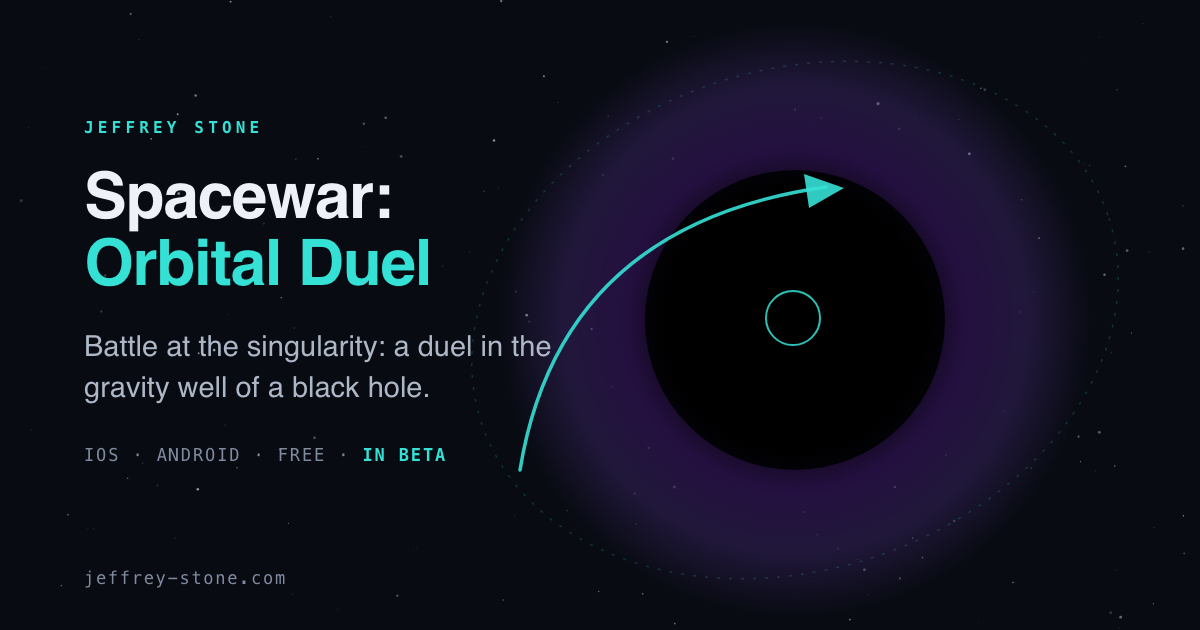
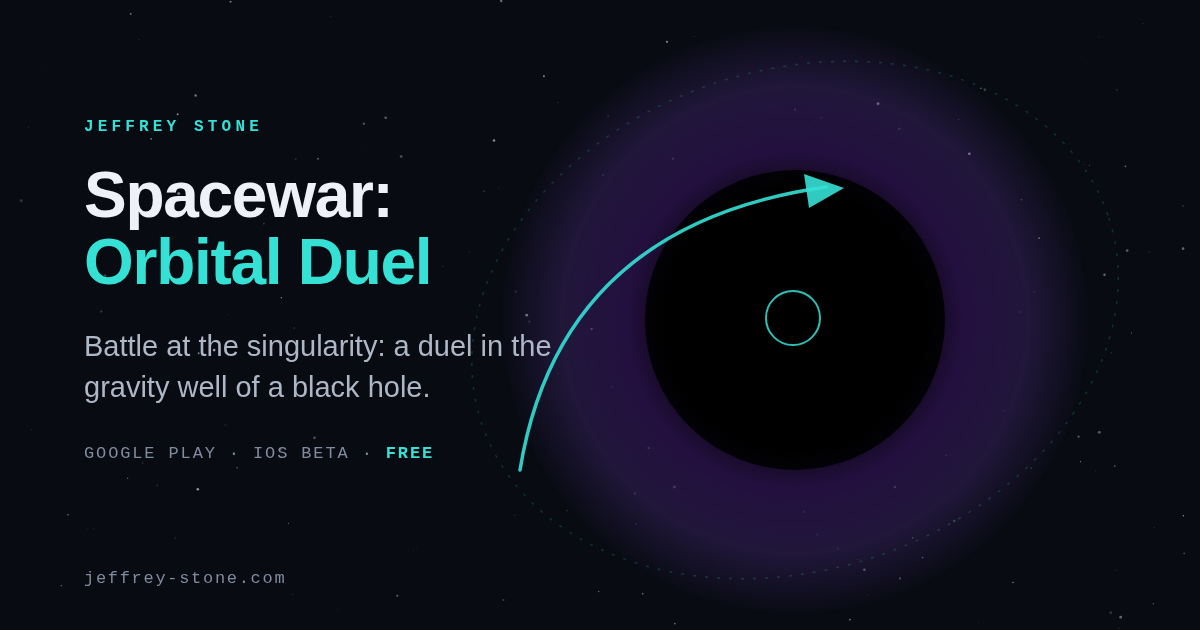
Publish site

diff --git a/support/index.html b/support/index.html
@@ -4,20 +4,20 @@
 <meta charset="utf-8">
 <meta name="viewport" content="width=device-width, initial-scale=1">
 <title>Support | Jeffrey Stone</title>
-<meta name="description" content="Spacewar: Orbital Duel in beta on iOS (TestFlight) or Android (Google Play), Rabbitbrush: Plant ID on the App Store and Google Play, and how to send feedback to the developer.">
+<meta name="description" content="Spacewar: Orbital Duel on Google Play and in beta on iPhone and iPad (TestFlight), Rabbitbrush: Plant ID on the App Store and Google Play, and how to send feedback to the developer.">
 <meta name="color-scheme" content="dark">
 <meta property="og:title" content="Support | Jeffrey Stone">
-<meta property="og:description" content="Spacewar: Orbital Duel in beta, Rabbitbrush: Plant ID on the App Store and Google Play, and how to reach the developer.">
+<meta property="og:description" content="Spacewar: Orbital Duel on Google Play and in beta on iPhone, Rabbitbrush: Plant ID on the App Store and Google Play, and how to reach the developer.">
 <meta property="og:type" content="website">
 <meta property="og:site_name" content="Jeffrey Stone">
 <meta property="og:url" content="https://jeffrey-stone.com/support/">
 <meta property="og:image" content="https://jeffrey-stone.com/assets/og-support.png">
 <meta property="og:image:width" content="1200">
 <meta property="og:image:height" content="630">
-<meta property="og:image:alt" content="Support: Spacewar: Orbital Duel in beta on iOS and Android, Rabbitbrush: Plant ID on the App Store and Google Play, and how to reach the developer.">
+<meta property="og:image:alt" content="Support and feedback: Spacewar on Google Play, Rabbitbrush in both stores, and how to reach me.">
 <meta name="twitter:card" content="summary_large_image">
 <meta name="twitter:title" content="Support | Jeffrey Stone">
-<meta name="twitter:description" content="Spacewar: Orbital Duel in beta, Rabbitbrush: Plant ID on the App Store and Google Play, and how to reach the developer.">
+<meta name="twitter:description" content="Spacewar: Orbital Duel on Google Play and in beta on iPhone, Rabbitbrush: Plant ID on the App Store and Google Play, and how to reach the developer.">
 <meta name="twitter:image" content="https://jeffrey-stone.com/assets/og-support.png">
 <link rel="icon" type="image/svg+xml" href="../assets/icon.svg">
 <link rel="icon" href="../assets/apple-touch-icon.png" sizes="180x180">
@@ -46,8 +46,8 @@
 <div class="page-head">
   <div class="wrap">
     <p class="eyebrow">Support &amp; feedback</p>
-    <h1>Testing an early build? Here's how to reach me</h1>
-    <p class="lede"><a href="../spacewar/">Spacewar: Orbital Duel</a> is in beta on iPhone, iPad and Android. <a href="../rabbitbrush/">Rabbitbrush: Plant ID</a> is on the App Store for iPhone and on Google Play for Android. How to get each is below; your notes shape where they go next.</p>
+    <h1>How to get the apps, and how to reach me</h1>
+    <p class="lede"><a href="../spacewar/">Spacewar: Orbital Duel</a> is on Google Play for Android and in beta on iPhone and iPad. <a href="../rabbitbrush/">Rabbitbrush: Plant ID</a> is on the App Store for iPhone and on Google Play for Android. How to get each is below; your notes shape where they go next.</p>
   </div>
 </div>
 
@@ -55,25 +55,20 @@
   <div class="wrap">
     <div class="flag">
       <p class="eyebrow" style="margin:0;">Spacewar: Orbital Duel</p>
-      <span class="badge">iOS &amp; Android Beta</span>
+      <span class="badge">Google Play &middot; iOS Beta</span>
     </div>
     <p class="lede">The game opens with a hands-on tutorial; the <a href="../spacewar/">controls guide</a> is a quick reference.</p>
     <div class="cta-row" style="margin-top:22px;">
+      <a class="store-badge play" href="https://play.google.com/store/apps/details?id=com.jeffreystone.spacewar" target="_blank" rel="noopener"><img src="../assets/google-play-badge.png" alt="Get it on Google Play" width="201" height="78"></a>
+    </div>
+    <p class="mono-line muted" style="margin-top:12px; font-size:13px;">Android 10 or later &middot; free, no ads.</p>
+    <p class="lede" style="margin-top:28px;">On iPhone and iPad, the game is in beta through TestFlight.</p>
+    <div class="cta-row" style="margin-top:14px;">
       <a class="btn btn-ghost" href="https://apps.apple.com/app/testflight/id899247664" target="_blank" rel="noopener">1 &middot; Get TestFlight</a>
       <a class="btn btn-primary" href="https://testflight.apple.com/join/bKWgvAwW" target="_blank" rel="noopener">2 &middot; Join the beta &rarr;</a>
     </div>
-    <p class="mono-line muted" style="margin-top:12px; font-size:13px;">Already have <b>TestFlight</b>? Go straight to step 2 &middot; iPhone or iPad &middot; limited spots. Android is below.</p>
+    <p class="mono-line muted" style="margin-top:12px; font-size:13px;">Already have <b>TestFlight</b>? Go straight to step 2 &middot; iPhone or iPad &middot; limited spots.</p>
     <p class="mono-line muted" style="margin-top:6px; font-size:13px;">If TestFlight asks for a redemption code, there isn't one. Close it, come back here, and tap <b>Join</b> again.</p>
-    <p class="lede" style="margin-top:28px;">On Android, the beta runs through Google Play. Play admits testers by a Google Group, so joining the group comes first.</p>
-    <div class="cta-row" style="margin-top:14px;">
-      <!-- the closed track's testers are the Google Group; the opt-in page and the store page answer only for an account in it -->
-      <a class="btn btn-primary" href="https://groups.google.com/g/spacewar-testers/about" target="_blank" rel="noopener">1 &middot; Join the testers group</a>
-      <a class="btn btn-ghost" href="https://play.google.com/apps/testing/com.justtinkering.spacewar" target="_blank" rel="noopener">2 &middot; Become a tester</a>
-      <a class="btn btn-ghost" href="https://play.google.com/store/apps/details?id=com.justtinkering.spacewar" target="_blank" rel="noopener">3 &middot; Get it on Google Play &rarr;</a>
-    </div>
-    <p class="mono-line muted" style="margin-top:12px; font-size:13px;">Do all three on the phone, signed in to the Google account its Play Store uses: press <b>Join group</b>, then <b>Become a tester</b>, then install &middot; Android 10 or later.</p>
-    <p class="mono-line muted" style="margin-top:6px; font-size:13px;">Step 1 opens the group's page on Google Groups. The small <b>Join group</b> button next to the group's name is the whole step (tap it, then <b>Join group</b> again in the box that opens). The button is gone once you are a member, so no button means you have already joined.</p>
-    <p class="mono-line muted" style="margin-top:6px; font-size:13px;">Step 2 can take a few minutes to open after step 1, and step 3 opens only for testers. If Play says the app is not available, go back a step.</p>
   </div>
 </section>
 
@@ -99,12 +94,12 @@
   <div class="wrap">
     <div class="duo">
       <div class="card">
-        <h3>Send beta feedback</h3>
-        <p>The fastest way to reach me, with your build details attached automatically:</p>
+        <h3>Send feedback</h3>
+        <p>Any of these reaches me:</p>
         <ul>
-          <li>In a TestFlight build of Spacewar, take a screenshot &rarr; <b>Send Beta Feedback</b></li>
-          <li>Or use <b>Send Feedback</b> on the app's TestFlight page</li>
-          <li>On Android, or for Rabbitbrush, email a screenshot to <a href="mailto:support@jeffrey-stone.com">support@jeffrey-stone.com</a></li>
+          <li>In Spacewar's iPhone and iPad beta, take a screenshot &rarr; <b>Send Beta Feedback</b>, and TestFlight attaches your build details</li>
+          <li>Or use <b>Send Feedback</b> on the game's TestFlight page</li>
+          <li>From Spacewar on Google Play, or from Rabbitbrush on either phone, email a screenshot to <a href="mailto:support@jeffrey-stone.com">support@jeffrey-stone.com</a></li>
           <li>In Rabbitbrush, the field check under every result is the feedback that counts most</li>
         </ul>
         <p style="margin-top:16px;">Tell me what confused you, what felt good, and anything that broke.</p>

diff --git a/spacewar/index.html b/spacewar/index.html
@@ -4,20 +4,20 @@
 <meta charset="utf-8">
 <meta name="viewport" content="width=device-width, initial-scale=1">
 <title>Spacewar: Orbital Duel | Jeffrey Stone</title>
-<meta name="description" content="Spacewar: Orbital Duel, a one-on-one duel in the gravity well of a black hole. Ride orbits, curve your shots, master the singularity. iOS and Android, free, in beta.">
+<meta name="description" content="Spacewar: Orbital Duel, a one-on-one duel in the gravity well of a black hole. Ride orbits, curve your shots, master the singularity. Free on Google Play, in beta on iPhone and iPad.">
 <meta name="color-scheme" content="dark">
 <meta property="og:title" content="Spacewar: Orbital Duel">
-<meta property="og:description" content="Battle at the singularity. iOS and Android, free, in beta.">
+<meta property="og:description" content="Battle at the singularity. Free on Google Play, in beta on iPhone and iPad.">
 <meta property="og:type" content="website">
 <meta property="og:site_name" content="Jeffrey Stone">
 <meta property="og:url" content="https://jeffrey-stone.com/spacewar/">
 <meta property="og:image" content="https://jeffrey-stone.com/assets/og-spacewar.png">
 <meta property="og:image:width" content="1200">
 <meta property="og:image:height" content="630">
-<meta property="og:image:alt" content="Spacewar: Orbital Duel, a ship riding a glowing cyan orbit around a black hole.">
+<meta property="og:image:alt" content="Spacewar: Orbital Duel. Battle at the singularity, free on Google Play and in beta on iPhone, beside a ship riding a cyan orbit around a black hole.">
 <meta name="twitter:card" content="summary_large_image">
 <meta name="twitter:title" content="Spacewar: Orbital Duel">
-<meta name="twitter:description" content="Battle at the singularity. iOS and Android, free, in beta.">
+<meta name="twitter:description" content="Battle at the singularity. Free on Google Play, in beta on iPhone and iPad.">
 <meta name="twitter:image" content="https://jeffrey-stone.com/assets/og-spacewar.png">
 <link rel="icon" type="image/svg+xml" href="../assets/icon.svg">
 <link rel="icon" href="../assets/apple-touch-icon.png" sizes="180x180">
@@ -50,12 +50,13 @@
     <div class="hero-content">
       <div class="flag">
         <p class="eyebrow" style="margin:0;">The game</p>
-        <span class="badge">iOS &amp; Android Beta</span>
+        <span class="badge">Google Play &middot; iOS Beta</span>
       </div>
       <h1>Spacewar: <span class="sweep">Orbital&nbsp;Duel</span></h1>
       <p class="sub">Battle at the singularity: a one-on-one space duel fought in the gravity well of a black hole.</p>
       <div class="cta-row">
-        <a class="btn btn-primary" href="../support/">Beta testers, start here</a>
+        <a class="store-badge play" href="https://play.google.com/store/apps/details?id=com.jeffreystone.spacewar" target="_blank" rel="noopener"><img src="../assets/google-play-badge.png" alt="Get it on Google Play" width="201" height="78"></a>
+        <a class="btn btn-ghost" href="../support/#spacewar">iPhone and iPad beta</a>
         <a class="btn btn-ghost" href="../orbits/">Learn to think in orbits</a>
       </div>
     </div>
@@ -97,7 +98,7 @@
     </div>
 
     <div class="cta-row" style="margin-top:52px;">
-      <a class="btn btn-primary" href="../support/">Send beta feedback &rarr;</a>
+      <a class="btn btn-primary" href="../support/">Send feedback &rarr;</a>
       <a class="btn btn-ghost" href="privacy/">Privacy</a>
       <a class="btn btn-ghost" href="support/">Remove your scores</a>
     </div>

diff --git a/index.html b/index.html
@@ -63,7 +63,7 @@
   <div class="wrap">
     <div class="flag">
       <p class="eyebrow" style="margin:0;">The game</p>
-      <span class="badge">iOS &amp; Android Beta</span>
+      <span class="badge">Google Play &middot; iOS Beta</span>
     </div>
     <h2>Spacewar: Orbital Duel</h2>
     <div class="prose" style="max-width:40em; margin-top:20px;">
@@ -72,7 +72,8 @@
     </div>
     <div class="cta-row" style="margin-top:30px;">
       <a class="btn btn-primary" href="spacewar/">Meet the game &rarr;</a>
-      <a class="btn btn-ghost" href="support/">Beta testers, start here</a>
+      <a class="btn btn-ghost" href="https://play.google.com/store/apps/details?id=com.jeffreystone.spacewar" target="_blank" rel="noopener">Get it on Google Play</a>
+      <a class="btn btn-ghost" href="support/#spacewar">iPhone and iPad beta</a>
       <a class="btn btn-ghost" href="orbits/">The orbit lab</a>
     </div>
   </div>
@@ -147,7 +148,7 @@
       <div class="line"><span class="k">Platform</span><span>Spacewar: iPhone, iPad and Android phones, one-finger playable. Rabbitbrush: iPhone and Android phones.</span></div>
       <div class="line"><span class="k">Price</span><span>Free, and always will be: no ads, no paywalls. The site and the game collect nothing; Rabbitbrush collects nothing unless you turn sharing on.</span></div>
       <div class="line"><span class="k">Tip jar</span><span>If a game or a notebook made your day, you can <a href="https://buymeacoffee.com/jeffreystone">buy me a coffee</a>.</span></div>
-      <div class="line"><span class="k">Now</span><span>Spacewar: Orbital Duel, in beta on iOS and Android. <a href="rabbitbrush/">Rabbitbrush</a>, an offline plant identifier for the western US, on the <a href="https://apps.apple.com/app/id6823228139">App Store</a> for iPhone and on <a href="https://play.google.com/store/apps/details?id=com.jeffreystone.rabbitbrush">Google Play</a> for Android.</span></div>
+      <div class="line"><span class="k">Now</span><span>Spacewar: Orbital Duel, on <a href="https://play.google.com/store/apps/details?id=com.jeffreystone.spacewar">Google Play</a> for Android and in beta on iPhone and iPad. <a href="rabbitbrush/">Rabbitbrush</a>, an offline plant identifier for the western US, on the <a href="https://apps.apple.com/app/id6823228139">App Store</a> for iPhone and on <a href="https://play.google.com/store/apps/details?id=com.jeffreystone.rabbitbrush">Google Play</a> for Android.</span></div>
     </div>
   </div>
 </section>

diff --git a/spacewar/support/index.html b/spacewar/support/index.html
@@ -12,14 +12,14 @@
 <meta property="og:site_name" content="Jeffrey Stone">
 <link rel="canonical" href="https://jeffrey-stone.com/spacewar/support/">
 <meta property="og:url" content="https://jeffrey-stone.com/spacewar/support/">
-<meta property="og:image" content="https://jeffrey-stone.com/assets/og-support.png">
+<meta property="og:image" content="https://jeffrey-stone.com/assets/og-spacewar-support.png">
 <meta property="og:image:width" content="1200">
 <meta property="og:image:height" content="630">
-<meta property="og:image:alt" content="Spacewar: Orbital Duel support: how to remove your shared high scores from the world board.">
+<meta property="og:image:alt" content="Spacewar: Orbital Duel. Support: remove your shared high scores from the world board, from the game or by email.">
 <meta name="twitter:card" content="summary_large_image">
 <meta name="twitter:title" content="Support | Spacewar: Orbital Duel">
 <meta name="twitter:description" content="Remove your shared high scores from the world board, from the game or by email.">
-<meta name="twitter:image" content="https://jeffrey-stone.com/assets/og-support.png">
+<meta name="twitter:image" content="https://jeffrey-stone.com/assets/og-spacewar-support.png">
 <link rel="icon" type="image/svg+xml" href="../../assets/icon.svg">
 <link rel="icon" href="../../assets/apple-touch-icon.png" sizes="180x180">
 <link rel="apple-touch-icon" href="../../assets/apple-touch-icon.png">

diff --git a/share/index.html b/share/index.html
@@ -73,7 +73,7 @@
   <div class="wrap">
     <p class="eyebrow">Share</p>
     <h1>Spread the word</h1>
-    <p class="lede">Know someone who'd like to beta-test Spacewar: Orbital Duel on iPhone, iPad or Android, or try Rabbitbrush from the App Store or Google Play?</p>
+    <p class="lede">Know someone who'd like to play Spacewar: Orbital Duel on Android or beta-test it on iPhone and iPad, or try Rabbitbrush from the App Store or Google Play?</p>
   </div>
 </div>
 
@@ -95,7 +95,7 @@
           <button class="btn btn-primary" id="copyBtn" type="button">Copy link</button>
           <button class="btn btn-ghost" id="shareBtn" type="button" hidden>Share&hellip;</button>
         </div>
-        <p class="share-second">Sharing the Spacewar beta instead? Send testers to <a href="../support/">the beta page</a>.</p>
+        <p class="share-second">Sharing the Spacewar beta for iPhone and iPad instead? Send testers to <a href="../support/#spacewar">its join steps</a>.</p>
       </div>
     </div>
   </div>
